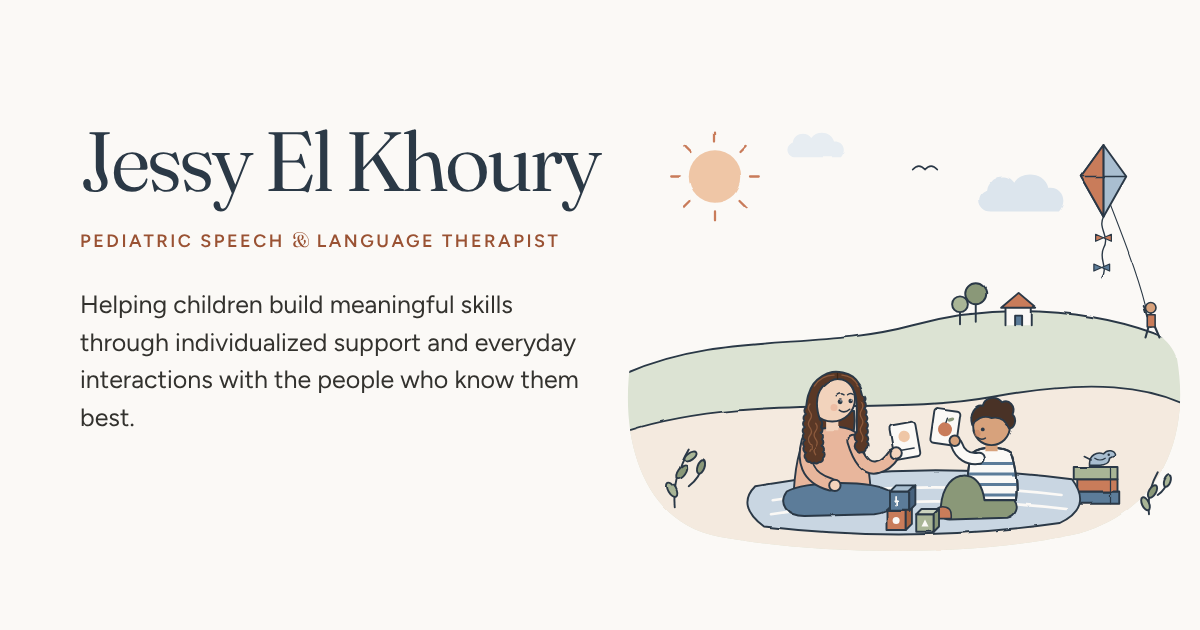
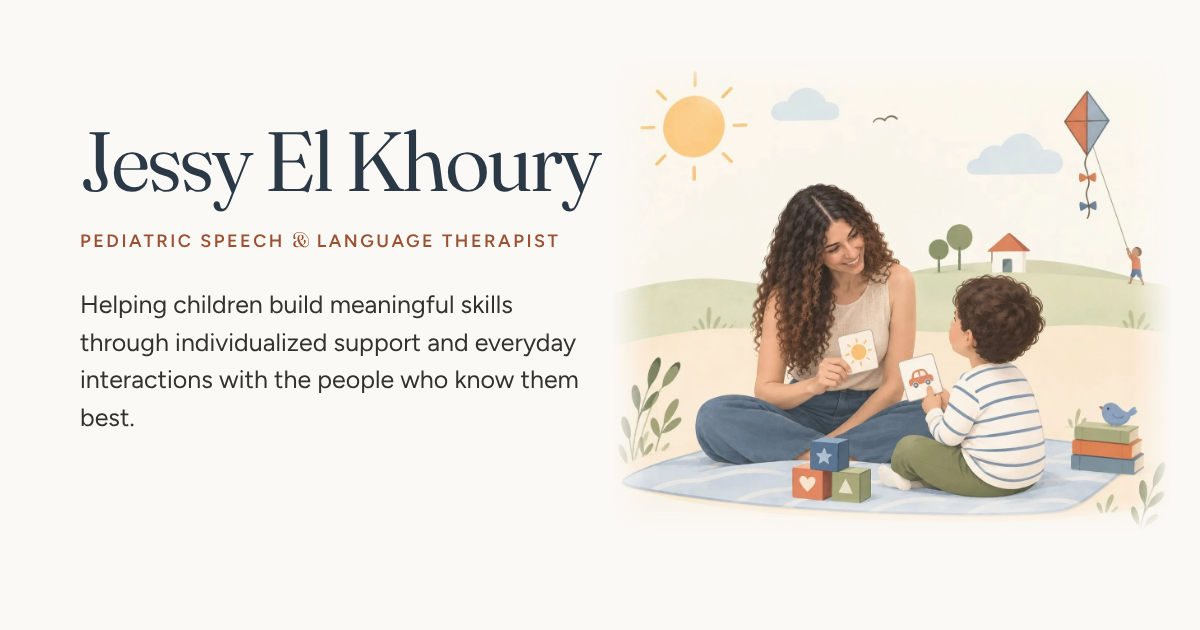
Use the painted scene of Jessy instead of the drawn therapist
The homepage and About Me now show the painting of Jessy with a child
(the About Me one a closer crop), built as responsive WebP sizes with
edges that fade into the page. The background pre-loading picks the
size each screen will use, and the link-sharing image uses the painting
too. The two drawn scenes it replaces are removed.

Claude-Session: https://claude.ai/code/session_01K6ajnfjFq2mRWVZaHpA7oL

Changed region(s): [[0.4933, 0.1508, 0.9867, 0.8746], [0.5242, 0.1508, 0.6167, 0.3317], [0.6475, 0.1206, 0.7092, 0.2111]]

diff --git a/eleventy.config.js b/eleventy.config.js
@@ -111,6 +111,25 @@ export default function (eleventyConfig) {
     });
   });
 
+  // The painted scenes of Jessy with a child (homepage, About Me): responsive WebP sizes.
+  // Decorative like the drawings, so they are published alongside them with alt="".
+  eleventyConfig.addAsyncShortcode("scene", async (src, sizes, loading = "lazy") => {
+    const metadata = await Image(path.join("src", src), {
+      widths: [480, 800, 1200, "auto"],
+      formats: ["webp"],
+      outputDir: "_site/assets/illustrations/",
+      urlPath: "/assets/illustrations/",
+    });
+    return generateHTML(metadata, {
+      alt: "",
+      sizes,
+      loading,
+      decoding: "async",
+      class: "scene",
+      ...(loading === "eager" ? { fetchpriority: "high" } : {}),
+    });
+  });
+
   eleventyConfig.on("eleventy.after", () => {
     const settings = loadYaml(fs.readFileSync("src/_data/settings.yml", "utf8"));
     // An empty phone number is deliberate (it hides the phone line); only flag leftover placeholders.

diff --git a/src/_includes/css/main.css b/src/_includes/css/main.css
@@ -916,6 +916,18 @@ a:focus-visible .mark {
   height: auto;
 }
 
+/* The painted scenes fade softly into the page at their edges. */
+.scene {
+  -webkit-mask-image:
+    linear-gradient(to right, transparent, #000 7%, #000 93%, transparent),
+    linear-gradient(to bottom, transparent, #000 7%, #000 93%, transparent);
+  -webkit-mask-composite: source-in;
+  mask-image:
+    linear-gradient(to right, transparent, #000 7%, #000 93%, transparent),
+    linear-gradient(to bottom, transparent, #000 7%, #000 93%, transparent);
+  mask-composite: intersect;
+}
+
 @media (max-width: 55.99em) {
   .hero__art {
     width: min(100%, 30rem);

diff --git a/README.md b/README.md
@@ -149,7 +149,7 @@ The handoff's pre-launch checklist, and where each item stands:
 ### To confirm with Jessy
 
 - **Portrait (optional):** upload it under *Pages → About Me → Portrait*, with a
-  short description. It replaces the illustration on the About Me page, and is
+  short description. It replaces the painted scene on the About Me page, and is
   converted to responsive AVIF/WebP/JPEG automatically.
 - **Domain name.**
 
@@ -197,6 +197,9 @@ For anyone editing the site later:
   drawn as SVG for this site, so they stay sharp and light. Scenes show parent and
   child play, picture cards, blocks, books, a kite and rolling hills. Large scenes
   are in `src/assets/illustrations/`; icons are in `src/_includes/partials/sprite.njk`.
+  The homepage and About Me show a soft painted scene of Jessy with a child, supplied
+  by the client (`src/assets/art/`; the About Me one is a closer crop). The build
+  makes sized WebP copies of it, and its edges fade into the page.
   Each Area of Expertise (and its subsections), How I Work principle and For Parents
   question picks its icon in the CMS, and each About Me section can show a small
   illustration beside its text. Longer passages have a faint layer of hand-drawn
